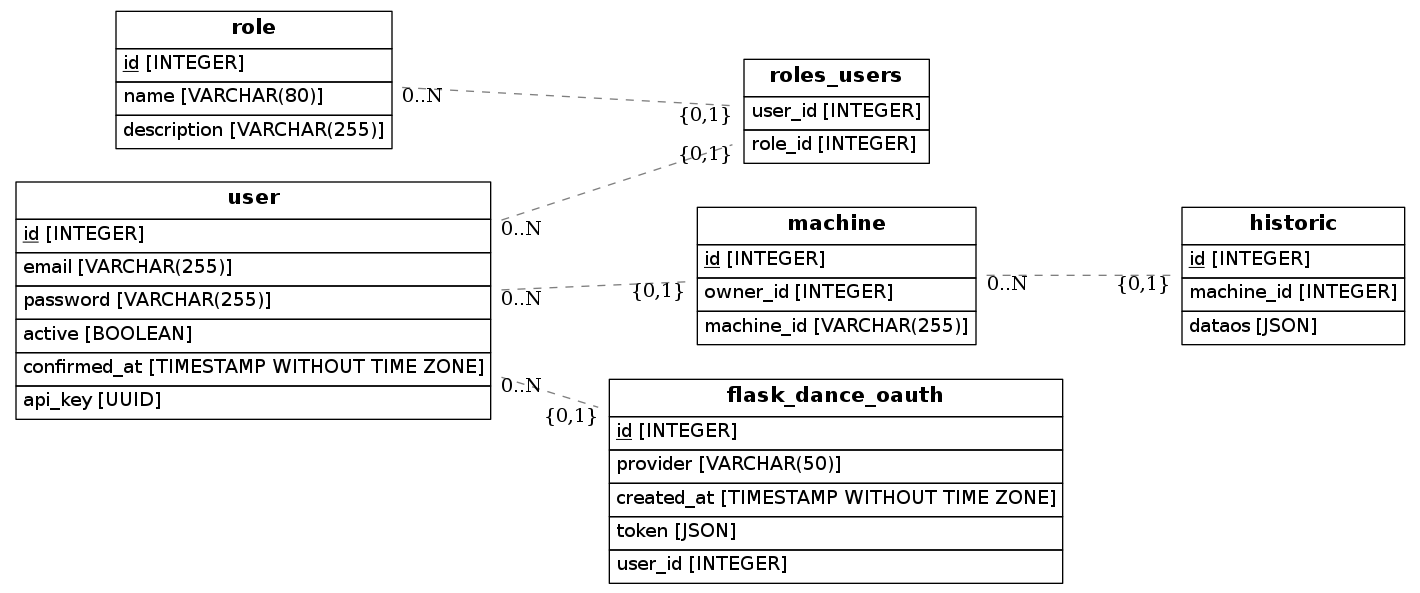
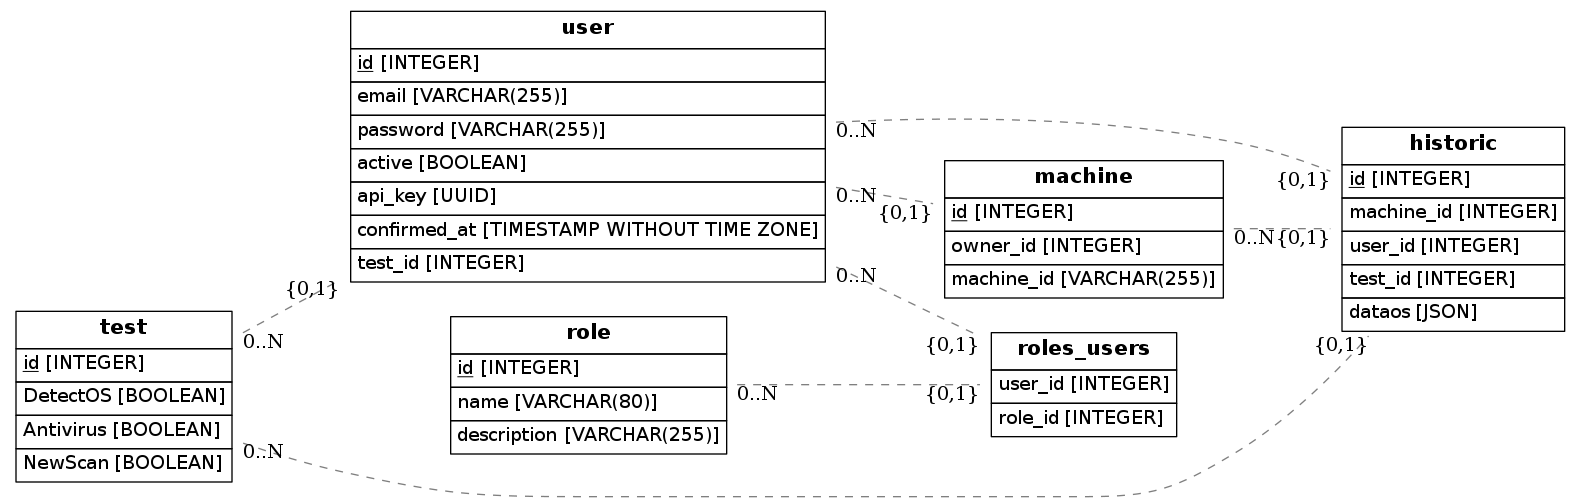
Makefile and double historic issues solved + History of machines improved

Changed region(s): [[0.0, 0.0, 0.9915, 1.0], [0.8366, 0.239, 0.9915, 0.2988]]

diff --git a/flask/templates/dashboard/HistoryMachines.html b/flask/templates/dashboard/HistoryMachines.html
@@ -80,59 +80,88 @@ document.addEventListener('DOMContentLoaded', function main(e) {
               {{ APIcall[i]["release"] }}
             </a>
 
-            <a class="list-group-item list-group-item-action"> 
-              <span class="badge badge-pill badge-light">
-                <h3><i class="fa fas fa-history"></i> </h3> 
-              </span>
-              Version:
-              {{ APIcall[i]["version"] }}
-            </a>
+            {% if (APIcall[i]["version"] != null) %}
+              <a class="list-group-item list-group-item-action"> 
+                <span class="badge badge-pill badge-light">
+                  <h3><i class="fa fas fa-history"></i> </h3> 
+                </span>
+                Version:
+                {{ APIcall[i]["version"] }}
+              </a>
+            {% endif %} 
 
-            <a class="list-group-item list-group-item-action"> 
-              <span class="badge badge-pill badge-light">
-                <h3> <i class="fa fab fa-connectdevelop"></i></h3> 
-              </span> 
-              Architecture:
-              {{ APIcall[i]["machine"] }}
-            </a>
+            {% if (APIcall[i]["machine"] != null) %}
+              <a class="list-group-item list-group-item-action"> 
+                <span class="badge badge-pill badge-light">
+                  <h3> <i class="fa fab fa-connectdevelop"></i></h3> 
+                </span> 
+                Architecture:
+                {{ APIcall[i]["machine"] }}
+              </a>
+            {% endif %} 
 
+            {% if (APIcall[i]["processor"] != null) %}
             <a class="list-group-item list-group-item-action"> 
               <span class="badge badge-pill badge-light">
                 <h3> <i class="fa fas fa-microchip"></i> </h3> 
               </span>
               {{ APIcall[i]["processor"] }}
             </a>
+            {% endif %} 
 
-            <a class="list-group-item list-group-item-action"> 
+            {% if (APIcall[i]["machine_id"] != null) %}
+              <a class="list-group-item list-group-item-action"> 
                 <span class="badge badge-pill badge-light">
-                  <h3> <i class="fa fas fa-microchip"></i> </h3> 
+                  <h3> <i class="fa fa-info-circle"></i> </h3> 
                 </span>
+                Machine id:
                 {{ APIcall[i]["machine_id"] }}
               </a>
+            {% endif %} 
+
+            {% if (APIcall[i]["lsass"] != null) %}
               <a class="list-group-item list-group-item-action"> 
                 <span class="badge badge-pill badge-light">
                   <h3> <i class="fa fa-shield"></i> </h3> 
                 </span>
-                <b> <b1> {{ APIcall[i]["lsass"] }} </b1 > </b>
+                {% if (APIcall[i]["lsass"] != "Activated") %}
+                  <b style="color:red;"> <b1> {{ APIcall[i]["lsass"] }} </b1 > </b>
+                
+                {% elif (APIcall[i]["lsass"] == "Activated")  %} 
+                  <b style="color:green;"> <b1> {{ APIcall[i]["lsass"] }} </b1 > </b>
+                {% endif %}
               </a>
+            {% endif %} 
+
+            {% if (APIcall[i]["antivirus"] != null) %}
               <a class="list-group-item list-group-item-action"> 
                 <span class="badge badge-pill badge-light">
                   <h3> <i class="fa fa-life-ring"></i> </h3> 
                 </span>
                 Anti-virus:
-                {{ APIcall[i]["eset"] }}
+                {% if (APIcall[i]["antivirus"] == null) %}
+                  No anti-virus activated
+                {% endif %} 
+                {{ APIcall[i]["antivirus"] }}
               </a>
+            {% endif %} 
+
+            {% if (APIcall[i]["points"] != null) %}
               <a class="list-group-item list-group-item-action"> 
                 <span class="badge badge-pill badge-light">
-                  <h3> <i class="fa fas fa-microchip"></i> </h3> 
+                  <h3> <i class="fa fa-certificate  "></i> </h3> 
                 </span>
+                Points:
                 {{ APIcall[i]["points"] }}
               </a>
+            {% endif %} 
         </div>
       </div>
       {% endfor %}
     </div>
-    <div class="card-footer small text-muted" id="demo"> </div>
+    <div class="card-footer  text-muted" id="demo"> 
+      hi
+    </div>
   </div>
 </div>
 {% endblock %}

diff --git a/flask/api.py b/flask/api.py
@@ -48,6 +48,8 @@ def get_scans_table():
     hist_all = Historic.query.filter_by(user_id=current_user.id).all()
     for histo in hist_all:
         count_all=count_all+1
+        if not histo.dataos['system']:
+            return jsonify({'message' : 'No system found'}), 401
         if histo.dataos['system']=='Linux':
             count_lin = count_lin + 1
         if histo.dataos['system']=='Windows':
@@ -99,7 +101,6 @@ def generate_keytest():
 @require_appkey
 def getscans():
     payload = []
-    count = 0
     consumerKey = request.headers.get('x-api-key')
     print(consumerKey)
     user = User.query.filter_by(api_key=consumerKey).first()
@@ -107,7 +108,6 @@ def getscans():
     hist = Historic.query.filter_by(user_id=user.id).all()
     print(hist)
     for data in hist:
-        count=count+1
         payload.append(data.dataos)
     print(payload)
     return jsonify({'History' : payload})
@@ -152,31 +152,43 @@ def post_scan():
     message_machine = machineid.decode('utf8')
     #print(message_machine)
 
-    # If already exists the machine:
-    # exists = Machine.query.filter_by(machine_id=message_machine).first()
-    # if exists:    
-    #     abort(400, 'Already scanned this machine')
-    #     # url = 'http://127.0.0.1:5000/api/scans'
-    #     # requestpost = requests.post(url , json=payload, headers=headers)
+    #If already exists the machine:
+    exists = Machine.query.filter_by(machine_id=message_machine).first()
+    if exists: 
+        print("Updating your scan")   
+        user = User.query.filter_by(api_key=message_user).first()
+        print(user)
+        scanid= Historic.query.filter_by(test_id=user.test_id).first()
+        print(scanid)
+        test = update_scan(scanid)
+        return jsonify({'result': 'Update scan with sucess!'})
+        #abort(400, 'Already scanned this machine')
+        #url = 'http://127.0.0.1:5000/api/scans'
+    
+        # requestpost = requests.put(url, headers=request.json, params=)
+       # print(requestpost)
 
-
-    new_scan = {
-        'id': DetectOS[-1]['id'] + 1,  
-        'machine': request.json.get('machine', ""),
-        'node': request.json.get('node', ""),
-        'processor': request.json.get('processor', "" ),
-        'release': request.json.get('release', ""),
-        'system': request.json['system'],
-        'version': request.json['version'],
-        'machine_id': message_machine,
-        'lsass': request.json.get('lsass', ""),
-        'eset': request.json.get('eset', ""),
-        'points': request.json.get('points', ""),
-    }
+    print(request.json)
+    
+    if 'machine' or 'node' or 'system' in request.json:
+        new_scan = {
+            'id': DetectOS[-1]['id'] + 1,  
+            'machine': request.json.get('machine', ""),
+            'node': request.json.get('node', ""),
+            'processor': request.json.get('processor', "" ),
+            'release': request.json.get('release', ""),
+            'system': request.json.get('system', ""),
+            'version': request.json.get('version', ""),
+            'machine_id': message_machine,
+            'lsass': request.json.get('lsass', ""),
+            'antivirus': request.json.get('antivirus', ""),
+            'points': request.json.get('points', ""),
+        }
 
     DetectOS.append(new_scan)
     # print(message_machine)
     # print(message_user)
+    print(new_scan)
     mach = Machine.query.filter_by(machine_id=message_machine).first()
     user = User.query.filter_by(api_key=message_user).first()
     if not user:
@@ -197,15 +209,18 @@ def post_scan():
 
     print(result.id)
 
-    if not 'machine' or not 'version' in request.json:
+    if 'lsass' or not 'machine' or not 'version' in request.json:
         return jsonify({'result': True})
     return redirect(url_for('generate_pdf',historic=ide))
 
-# Update a parameter passing the  id on the route ################################## NOT GOOD
+# Update a parameter passing the  id on the route
 @app.route('/api/scans/<int:scan_id>', methods=['PUT'])
+@require_appkey
 def update_scan(scan_id):
+    print("scan_id")
     #scan = [scan for scan in DetectOS if scan['id'] == scan_id]
     scan = Historic.query.filter_by(id=scan_id).first()
+    print(scan)
     if not scan:
         abort(404)
     if not request.json:
@@ -229,9 +244,16 @@ def update_scan(scan_id):
     scan[0]['release'] = request.json.get('release', scan[0]['release'])
     scan[0]['system'] = request.json.get('system', scan[0]['system'])
     scan[0]['version'] = request.json.get('version', scan[0]['version'])
+    scan[0]['machine_id'] = request.json.get('machine_id', scan[0]['machine_id'])
+    scan[0]['lsass'] = request.json.get('lsass', scan[0]['lsass'])
+    scan[0]['antivirus'] = request.json.get('antivirus', scan[0]['antivirus'])
+    scan[0]['points'] = request.json.get('points', scan[0]['points'])
+
+    print(scan[0])
     return jsonify({'Updated_scan': scan[0]})
 
 @app.route('/api/scans/<int:scan_id>', methods=['DELETE'])
+@require_appkey
 def delete_scan(scan_id):
     scan = Historic.query.filter_by(id=scan_id).first()
     if not scan:

diff --git a/flask/dashboard.py b/flask/dashboard.py
@@ -42,7 +42,6 @@ def upload_file():
         #file.save(os.path.join('agent/', current_user.email + "NewScan.py"  ))
         file.save(os.path.join('agent/', "NewScan.py"))
 
-    # CHANGE THIS! NO HARDCODE MODE XD !!!!!!!!!!!!!!!!!!!!!!!!!!!!!!!!!!!!!!!!!!!!!!!!!!!!!!!!!!!!!!!
     return render_template("dashboard/quickstart.html")
     # return jsonify({'message' : 'File uploaded!'}), 201
 

diff --git a/agent/Antivirus.py b/agent/Antivirus.py
@@ -10,6 +10,7 @@ def runscan(result):
             if "lsass" in str(pinfo):
                 result["lsass"] = "Activated"
             if "ekrn" in str(pinfo):
-                result["eset"] = "ESET"
+                result["antivirus"] = "ESET"
+
     return result
         
